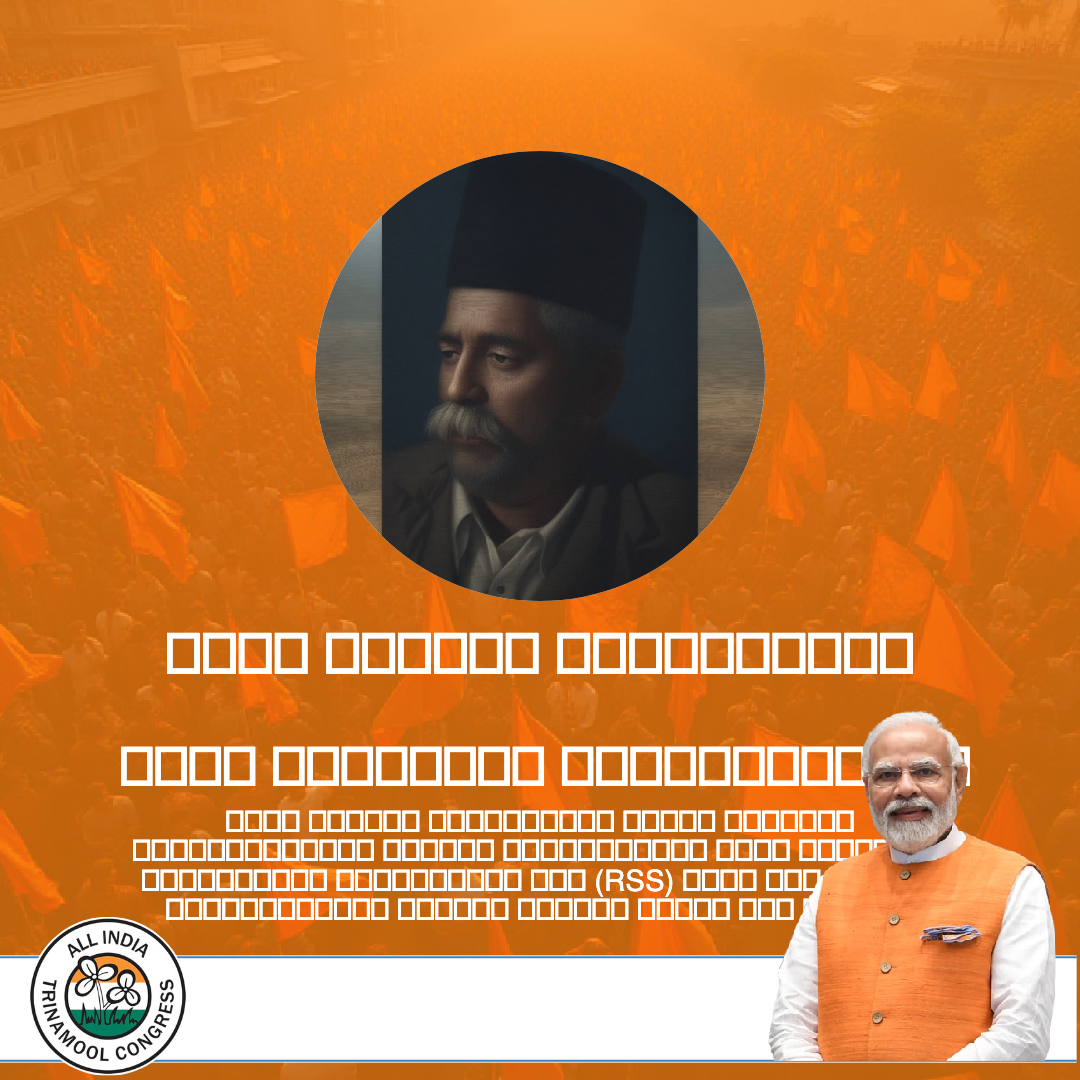
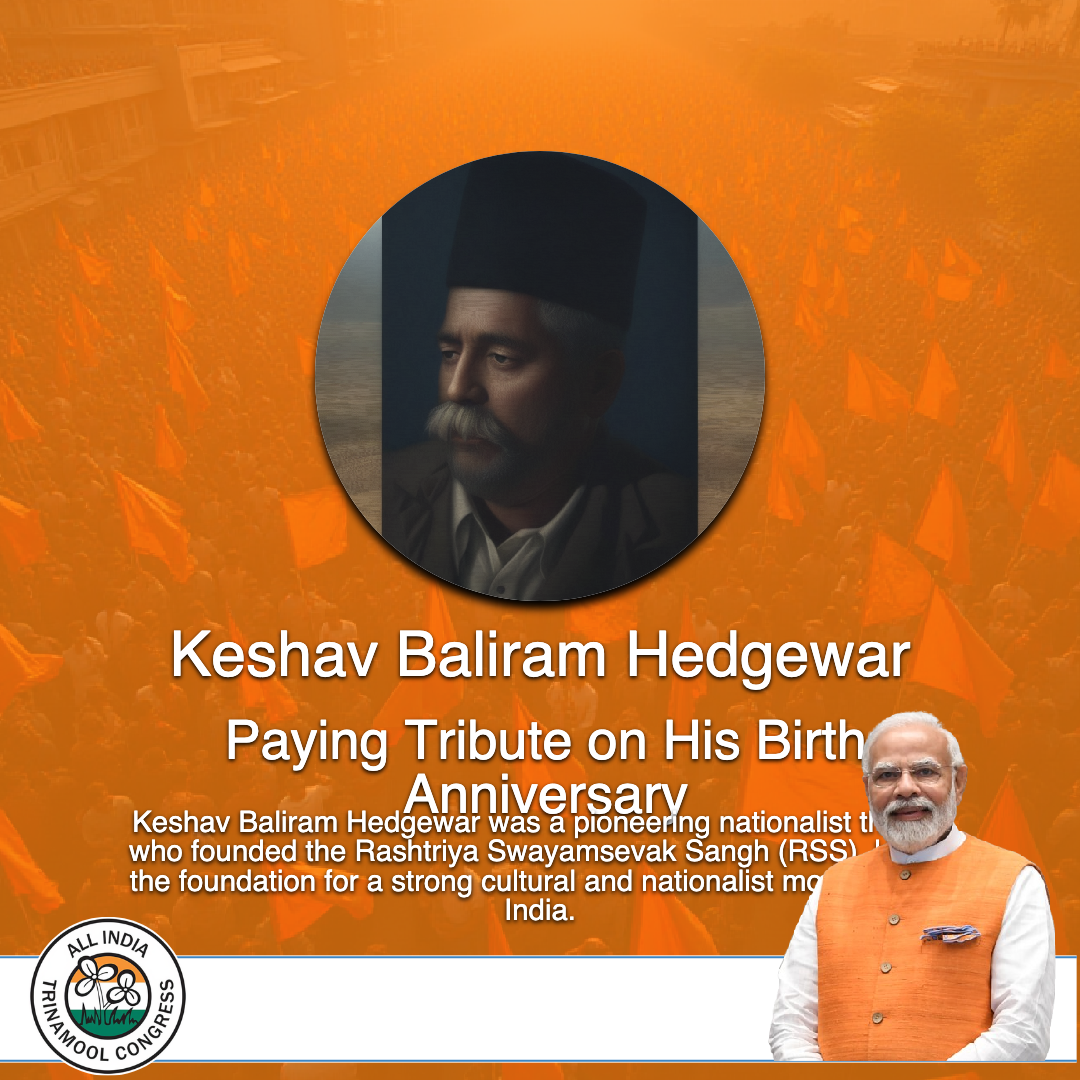
Add shadow effects for images and text in Skia rendering

diff --git a/skia_poster_generator/generate_thumbnial_skia.py b/skia_poster_generator/generate_thumbnial_skia.py
@@ -122,6 +122,35 @@ def get_language_font_family(lang_settings, lang_code):
     return 'English'
 
 
+def apply_shadow_paint(canvas, paint, shadow_data, stroke_paint=None):
+    """Helper function to apply shadow effects."""
+    if shadow_data is None:
+        return paint
+
+    # Extract shadow parameters
+    shadow_color_str = shadow_data.get('color', '#000000')
+    shadow_offset_x = shadow_data.get('offsetX', 0.0)
+    shadow_offset_y = shadow_data.get('offsetY', 2.0)
+    shadow_blur = shadow_data.get('blurRadius', 4.0)
+    shadow_spread = shadow_data.get('spreadRadius', 0.0)
+
+    # Create shadow paint
+    shadow_paint = skia.Paint(AntiAlias=True)
+    shadow_paint.setColor(hex_to_skia_color(shadow_color_str))
+    
+    # Set blur mask filter
+    if shadow_blur > 0:
+        shadow_paint.setMaskFilter(skia.MaskFilter.MakeBlur(skia.kNormal_BlurStyle, shadow_blur/2, True))
+    
+    # For stroking effects
+    if stroke_paint is not None:
+        shadow_paint.setStyle(skia.Paint.kStroke_Style)
+        shadow_paint.setStrokeWidth(stroke_paint.getStrokeWidth() + shadow_spread*2)
+    else:
+        shadow_paint.setStyle(paint.getStyle())
+    
+    return shadow_paint, shadow_offset_x, shadow_offset_y
+
 def render_template_element_skia(canvas, element_data, parent_canvas_width, parent_canvas_height, current_language, default_language_code, font_asset_path, lang_settings=None):
     """Renders a single TemplateElement onto the Skia canvas."""
     box = element_data['box']
@@ -175,7 +204,31 @@ def render_template_element_skia(canvas, element_data, parent_canvas_width, pare
                     print(f"[DEBUG] BoxFit: {box_fit_str}, src_rect: {src_rect}, dst_rect: {dst_rect_fitted}")
                     paint = skia.Paint(AntiAlias=True)
                     paint.setAlphaf(opacity)
-                    canvas.drawImageRect(skia_image, src_rect, dst_rect_fitted, paint)
+                    
+                    # Handle box shadow for images
+                    if style.get('box_shadow'):
+                        shadow_paint, shadow_x, shadow_y = apply_shadow_paint(canvas, paint, style['box_shadow'])
+                        # Create a temporary surface for the image with shadow
+                        surface = skia.Surface(int(el_width + abs(shadow_x) * 2), int(el_height + abs(shadow_y) * 2))
+                        shadow_canvas = surface.getCanvas()
+                        
+                        # Draw shadow
+                        shadow_canvas.translate(abs(shadow_x) if shadow_x < 0 else 0, abs(shadow_y) if shadow_y < 0 else 0)
+                        shadow_canvas.drawRect(skia.Rect.MakeXYWH(0, 0, dst_rect_fitted.width(), dst_rect_fitted.height()), shadow_paint)
+                        
+                        # Draw actual image
+                        shadow_canvas.drawImageRect(skia_image, src_rect, dst_rect_fitted, paint)
+                        
+                        # Get the image with shadow
+                        shadow_image = surface.makeImageSnapshot()
+                        
+                        # Draw the combined image+shadow
+                        canvas.drawImage(shadow_image, 
+                                      -abs(shadow_x) if shadow_x < 0 else 0, 
+                                      -abs(shadow_y) if shadow_y < 0 else 0)
+                    else:
+                        # Draw image normally if no shadow
+                        canvas.drawImageRect(skia_image, src_rect, dst_rect_fitted, paint)
                 else:
                     print(f"Failed to decode Skia image from URL: {img_url}")
             except requests.exceptions.RequestException as e:
@@ -189,67 +242,79 @@ def render_template_element_skia(canvas, element_data, parent_canvas_width, pare
         stroke_color_str = content.get('strokeColor', '#00000000')
         stroke_width = float(content.get('strokeWidth', 0))
 
-        print(f"[DEBUG] Shape type: {shape_type}, fill: {fill_color_str}, stroke: {stroke_color_str}, stroke_width: {stroke_width}")
-
-        # Prepare paint for fill
-        fill_paint = skia.Paint(AntiAlias=True, Style=skia.Paint.kFill_Style)
-        fill_paint.setColor(hex_to_skia_color(fill_color_str, 1.0)) # Opacity applied to layer
-
-        # Prepare paint for stroke
-        stroke_paint = None
-        if stroke_width > 0:
-            stroke_paint = skia.Paint(AntiAlias=True, Style=skia.Paint.kStroke_Style, StrokeWidth=stroke_width)
-            stroke_paint.setColor(hex_to_skia_color(stroke_color_str, 1.0)) # Opacity applied to layer
-
-        # Path for the shape
+        # Create shape path
         path = skia.Path()
         if shape_type == "ShapeType.rectangle" or shape_type is None:
             path.addRect(element_rect)
         elif shape_type == "ShapeType.circle" or shape_type == "ShapeType.oval":
             path.addOval(element_rect)
         
-        # Handle nested content (masking)
+        # Create a temporary surface that includes space for shadow
+        shadow_margin = 20
+        temp_surface = skia.Surface(int(el_width + shadow_margin * 2), int(el_height + shadow_margin * 2))
+        temp_canvas = temp_surface.getCanvas()
+        temp_canvas.clear(skia.ColorTRANSPARENT)
+        
+        # Translate to account for shadow margin
+        temp_canvas.translate(shadow_margin, shadow_margin)
+        
+        # Prepare paint for fill
+        fill_paint = skia.Paint(AntiAlias=True, Style=skia.Paint.kFill_Style)
+        fill_paint.setColor(hex_to_skia_color(fill_color_str, 1.0))
+        
+        # Prepare paint for stroke
+        stroke_paint = None
+        if stroke_width > 0:
+            stroke_paint = skia.Paint(AntiAlias=True, Style=skia.Paint.kStroke_Style, StrokeWidth=stroke_width)
+            stroke_paint.setColor(hex_to_skia_color(stroke_color_str, 1.0))
+        
+        # Handle shadows
+        if style.get('box_shadow'):
+            shadow_paint, shadow_x, shadow_y = apply_shadow_paint(temp_canvas, fill_paint, style['box_shadow'])
+            # Draw shadow
+            temp_canvas.save()
+            temp_canvas.translate(shadow_x, shadow_y)
+            temp_canvas.drawPath(path, shadow_paint)
+            temp_canvas.restore()
+        
+        # Handle nested content with masking
         nested_content_data = element_data.get('nested_content')
         if nested_content_data and nested_content_data.get('content'):
             # Apply overall element opacity using a layer
             layer_paint = skia.Paint(Alphaf=opacity)
-            canvas.saveLayer(element_rect, layer_paint)
-
-            # 1. Draw parent shape's fill color (e.g., white circle background)
-            if fill_paint.getAlphaf() > 0: # Check if fill is not transparent
-                 canvas.drawPath(path, fill_paint)
-
-            # 2. Render nested content, clipped by the parent shape
-            canvas.save()
-            canvas.clipPath(path, doAntiAlias=True)
+            temp_canvas.saveLayer(element_rect, layer_paint)
+            
+            # Draw parent shape's fill
+            if fill_paint.getAlphaf() > 0:
+                temp_canvas.drawPath(path, fill_paint)
+            
+            # Render nested content within the shape's path
+            temp_canvas.save()
+            temp_canvas.clipPath(path, doAntiAlias=True)
             
             nested_el_data = nested_content_data['content']
-            # The nested element is rendered relative to the parent's 0,0
-            # Its dimensions are determined by contentFit within parent's el_width, el_height
+            render_template_element_skia(temp_canvas, nested_el_data, el_width, el_height, current_language, default_language_code, font_asset_path, lang_settings)
             
-            # For nested content, its 'canvas' is effectively the parent's element_rect
-            # BoxFit for nested content needs to be handled carefully.
-            # Here, we assume the nested element (if image) will be drawn to fill the clipped path
-            # according to its own BoxFit, then the clip applies.
-            # This simplified version passes el_width, el_height as parent dimensions for nested.
-            render_template_element_skia(canvas, nested_el_data, el_width, el_height, current_language, default_language_code, font_asset_path, lang_settings)
+            temp_canvas.restore()
             
-            canvas.restore() # Restore from clip
-
-            # 3. Draw parent shape's stroke on top (if any)
+            # Draw stroke on top if any
             if stroke_paint:
-                canvas.drawPath(path, stroke_paint)
+                temp_canvas.drawPath(path, stroke_paint)
             
-            canvas.restore() # Restore from saveLayer
+            temp_canvas.restore()
         else:
-            # No nested content, just draw the shape with its own opacity
+            # No nested content, just draw the shape
             fill_paint.setAlphaf(fill_paint.getAlphaf() * opacity)
             if fill_paint.getAlphaf() > 0:
-                canvas.drawPath(path, fill_paint)
+                temp_canvas.drawPath(path, fill_paint)
             if stroke_paint:
                 stroke_paint.setAlphaf(stroke_paint.getAlphaf() * opacity)
-                canvas.drawPath(path, stroke_paint)
-
+                temp_canvas.drawPath(path, stroke_paint)
+        
+        # Draw the final result with shadow to the main canvas
+        result_image = temp_surface.makeImageSnapshot()
+        canvas.drawImage(result_image, -shadow_margin, -shadow_margin)
+        
     elif el_type == 'text':
         text_to_render = ""
         lang_content_map = content # content is the map of languages
@@ -356,10 +421,23 @@ def render_template_element_skia(canvas, element_data, parent_canvas_width, pare
                     x_text_offset = el_width - line_width
                 # Default is left
                 print(f"[DEBUG] Drawing text line: '{line_text}', x: {x_text_offset}, y: {y_cursor}, width: {line_width}")
+                # Handle text shadow if specified
+                if 'text_shadow' in style:
+                    shadow_paint, shadow_x, shadow_y = apply_shadow_paint(canvas, text_paint, style['text_shadow'])
+                    # Draw text shadow
+                    canvas.drawString(line_text, x_text_offset + shadow_x, y_cursor + shadow_y, final_font, shadow_paint)
+                
+                # Draw main text
                 canvas.drawString(line_text, x_text_offset, y_cursor, final_font, text_paint)
+                
                 # Underline
                 if is_underlined:
                     underline_y = y_cursor + font_metrics.fDescent * 0.8
+                    # Draw underline shadow if text shadow is enabled
+                    if 'text_shadow' in style:
+                        canvas.drawLine(x_text_offset + shadow_x, underline_y + shadow_y, 
+                                   x_text_offset + line_width + shadow_x, underline_y + shadow_y, shadow_paint)
+                    # Draw main underline
                     canvas.drawLine(x_text_offset, underline_y, x_text_offset + line_width, underline_y, text_paint)
                 y_cursor += line_height
 
